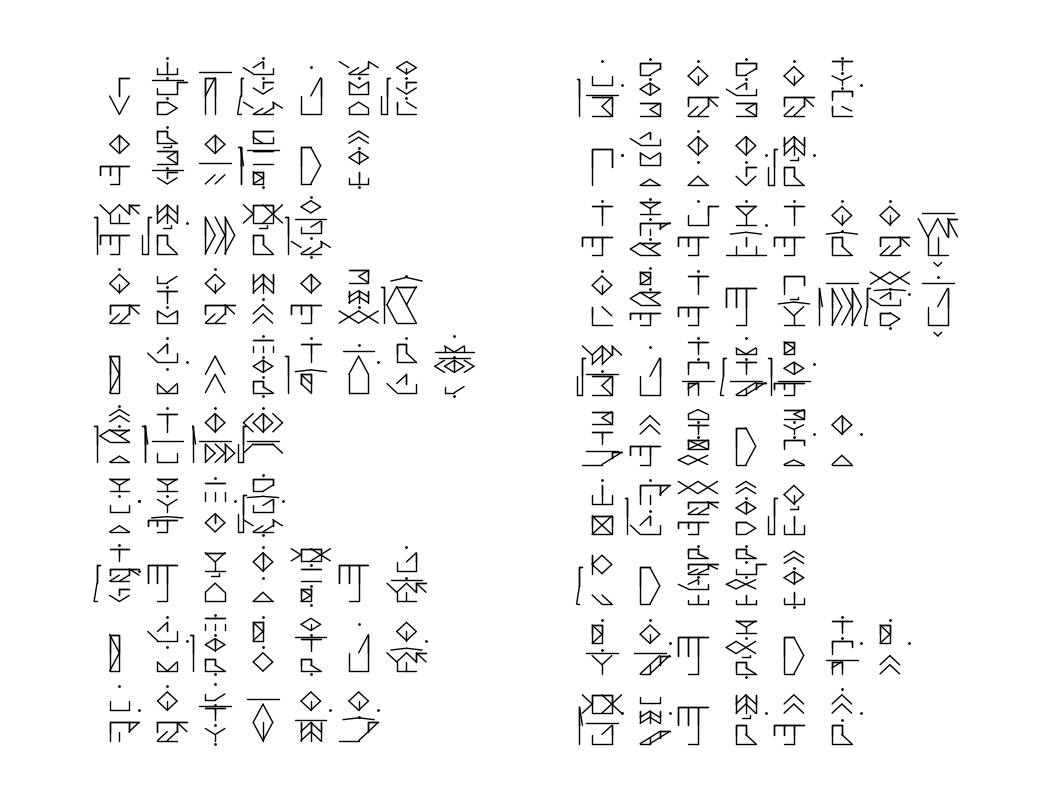
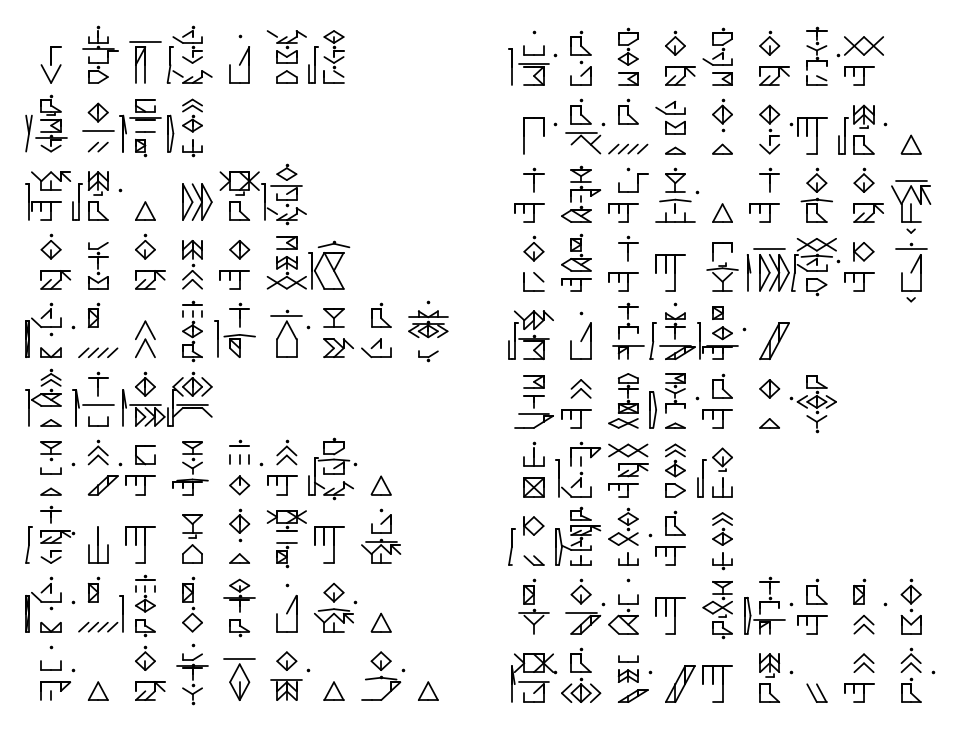
updated for long lasid data

diff --git a/lasid-viewer-new.html b/lasid-viewer-new.html
@@ -4,6 +4,7 @@
 <head>
     <title>LASID viewer</title>
     <link rel="stylesheet" href="styles.css">
+    <meta charset="utf-8"/>
     <script>
 
         var currentMap = 0;
@@ -31,31 +32,41 @@
         const dialect_colours = { "no": "#808000", "yes": "#008000", "extra": "#800000" };
 
         fetch("https://2-dot-spatial-tempo-386114.ew.r.appspot.com/lasid-info-all").then((res) => res.json()).then((resultsTable) => {
+        // fetch("http://localhost:5000/lasid-info-all").then((res) => res.json()).then((resultsTable) => {
             let lasidTable = document.getElementById("lasid-table-body");
             for (i in resultsTable) {
                 if (i > 0) {
                     let row = lasidTable.insertRow(-1);
 
-                    let updateMapNumber = (resultsTable[i][2] == "") ? (resultsTable[i][1] + "v") : (resultsTable[i][2]);
+                    // let updateMapNumber = (resultsTable[i][2] == "") ? (resultsTable[i][1] + "v") : (resultsTable[i][2]);
 
-                    row.onclick = function () { updateMap(updateMapNumber) };
-                    // let cell1 = row.insertCell(-1);
+                    row.onclick = function () {
+                        updateMap(row.children[0].innerText);
+                        mapName = "<h1 style='padding: 0px'>Map " + row.children[0].innerHTML + "</h1><h3 style='padding: 0px'>" + row.children[2].innerText + "</h3>";
+                        document.getElementById("currentMapTitle").innerHTML = mapName;
+                        document.querySelectorAll("#lasid-table tr").forEach(
+                            (r) => r.style.backgroundColor = "white"
+                        );
+                        row.style.backgroundColor = "cyan";
+                    };
+                    let cell1 = row.insertCell(-1);
                     let cell2 = row.insertCell(-1);
                     let cell3 = row.insertCell(-1);
-                    let cell4 = row.insertCell(-1);
-                    // cell1.innerHTML = table[i][0];
+                    // let cell4 = row.insertCell(-1);
+                    cell1.innerHTML = resultsTable[i][0];
                     cell2.innerHTML = resultsTable[i][1];
                     cell3.innerHTML = resultsTable[i][2];
-                    cell4.innerHTML = resultsTable[i][3];
+                    // cell4.innerHTML = resultsTable[i][3];
                 }
             }
         });
 
         async function updateMap(number) {
-            const initialData = await fetch("https://2-dot-spatial-tempo-386114.ew.r.appspot.com/maps/" + number);
-            // const initialData = await fetch("http://localhost:5000/maps/" + number);
+            const initialData = await fetch("https://2-dot-spatial-tempo-386114.ew.r.appspot.com/mapsLong/" + number);
+            // const initialData = await fetch("http://localhost:5000/mapsLong/" + number);
             const jsonResponse = await initialData.json();
-            console.log(jsonResponse);
+            console.log("new lasid data:");
+            console.log(jsonResponse);  
             currentMapData = jsonResponse;
             currentMap = number;
 
@@ -64,6 +75,7 @@
             for (pointInfo of jsonResponse) {
                 if (pointInfo[0] != "") {
                     let newPoint = document.createElementNS('http://www.w3.org/2000/svg', 'circle');
+                    console.log("non-null point found:");
                     console.log(pointInfo);
                     let lon = parseFloat(pointInfo[2]);
                     let lat = parseFloat(pointInfo[1]);
@@ -151,8 +163,8 @@
 
 <body class="lightmode">
     <div class="main-container">
-        <div class="main-sidebar">
-            <h1 id="currentMapTitle"></h1>
+        <div class="main-sidebar" style="padding: 20px">
+            <span id="currentMapTitle" style="max-height: 200px; min-height:200px;height:200px"></span>
             <h3 id="currentMapSubtitle"> </h3>
             <div>
                 <span style="color:#7fbf7f">●</span> Living dialect

diff --git a/hibernoglyphics.html b/hibernoglyphics.html
@@ -21,7 +21,7 @@
 
         <h1>Inspiration</h1>
         <p>The main source of inspiration for radically rethinking how to write in Irish was <a href="https://www.youtube.com/@AnLoingseach/videos">AnLoingseach's YouTube channel</a>. I hope I have not too closely copied his orthography :)</p>
-        <p>In designing this writing system I have taken inspiration from a variety of ancient and modern writing systems including Ogham, Latin, Egyptian hieroglyphs, Korean and Japanese.</p>
+        <p>In designing this writing system I have taken inspiration from a variety of ancient and modern writing systems including Ogham, Latin, Egyptian hieroglyphs, Korean, Japanese, Arabic, Greek and ancient Iberian.</p>
         <hr/>
 
         <h1>Introduction</h1>
@@ -120,8 +120,8 @@
 
         <h2>A note on modern Irish words</h2>
         <p>Some modern Irish words, especially modern borrowings from English, will have to be adapted to our system. Initial <i>h-</i> in words like <i>hata</i> "hat" will be written as <b>sh</b>. Initial <i>v-</i> in words like <i>vóta</i> "vote" (noun) will be written as <b>bh</b> (this way of writing such words was historically very common in Irish).</p>
-        <p>Words like <i>veain</i> pose a challenge for our system. <i>(C)eai</i> can be transcribed as <b>(C)ea</b>, i.e. as if it were two syllables. Similarly, words like <i>Seán</i> (personal name), historically bisyllabic <i>Sea.án</i>, can be written as <b>seánho</b>, as if <i>eá</i> were still two syllables. The same can be done for all instances of <i>eá</i>, even in words like <i>caisleán</i> "castle" can be treated the same way, even though the <i>eá</i> there was not historically bisyllabic.</p>
-        <p>For word initial <i>j-</i> one can write <b>dihsih-</b>, followed by the relevant vowel glyph(s). For <i>z</i>, just write it as <b>s</b>, it's how many strong Irish speakers say it anyway. Words like <i>iógart</i> "yoghurt" have word initial /j-/ and can be treated as if they were written as <i>gheogart</i>.</p>
+        <p>Words like <i>veain</i> "van" pose a challenge for our system. <i>(C)eai</i> can be transcribed as <b>(C)ea</b>, i.e. as if it were two syllables. Similarly, words like <i>Seán</i> (personal name), historically bisyllabic <i>Sea.án</i>, can be written as <b>seánho</b>, as if <i>eá</i> were still two syllables. The same can be done for all instances of <i>eá</i>, even in words like <i>caisleán</i> "castle" can be treated the same way, even though the <i>eá</i> there was not historically bisyllabic.</p>
+        <p>For word initial <i>j-</i> one can write <b>dihsih-</b>, followed by the relevant vowel glyph(s). For <i>z</i>, just write it as <b>s</b>, it's how many strong Irish speakers say it anyway. Words like <i>iógart</i> "yoghurt" have word initial /j-/ and can be treated as if they were written as <i>gheogart</i> (note that technically this word should be pronounced with initial /iːoː/ if the spelling rules were to be followed, however it is in fact pronounced with /joː-/).</p>
         <hr/>
 
         <h2>A short text</h2>
